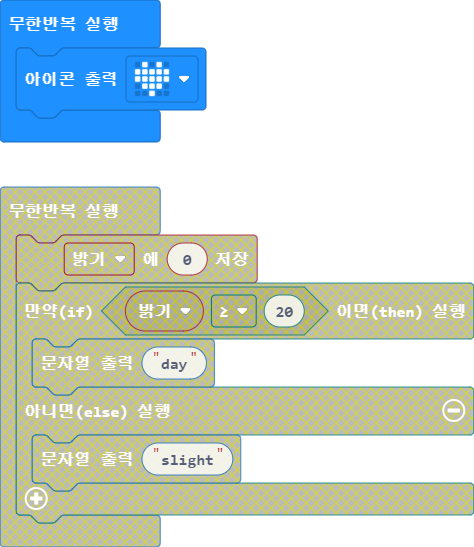
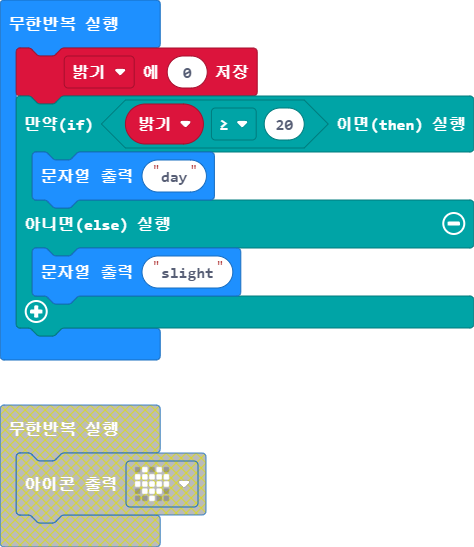
main.blocks, main.ts 업데이트하기

diff --git a/main.ts b/main.ts
@@ -1,3 +1,9 @@
+let 밝기 = 0
 basic.forever(function () {
-    basic.showIcon(IconNames.Heart)
+    밝기 = 0
+    if (밝기 >= 20) {
+        basic.showString("day")
+    } else {
+        basic.showString("slight")
+    }
 })
